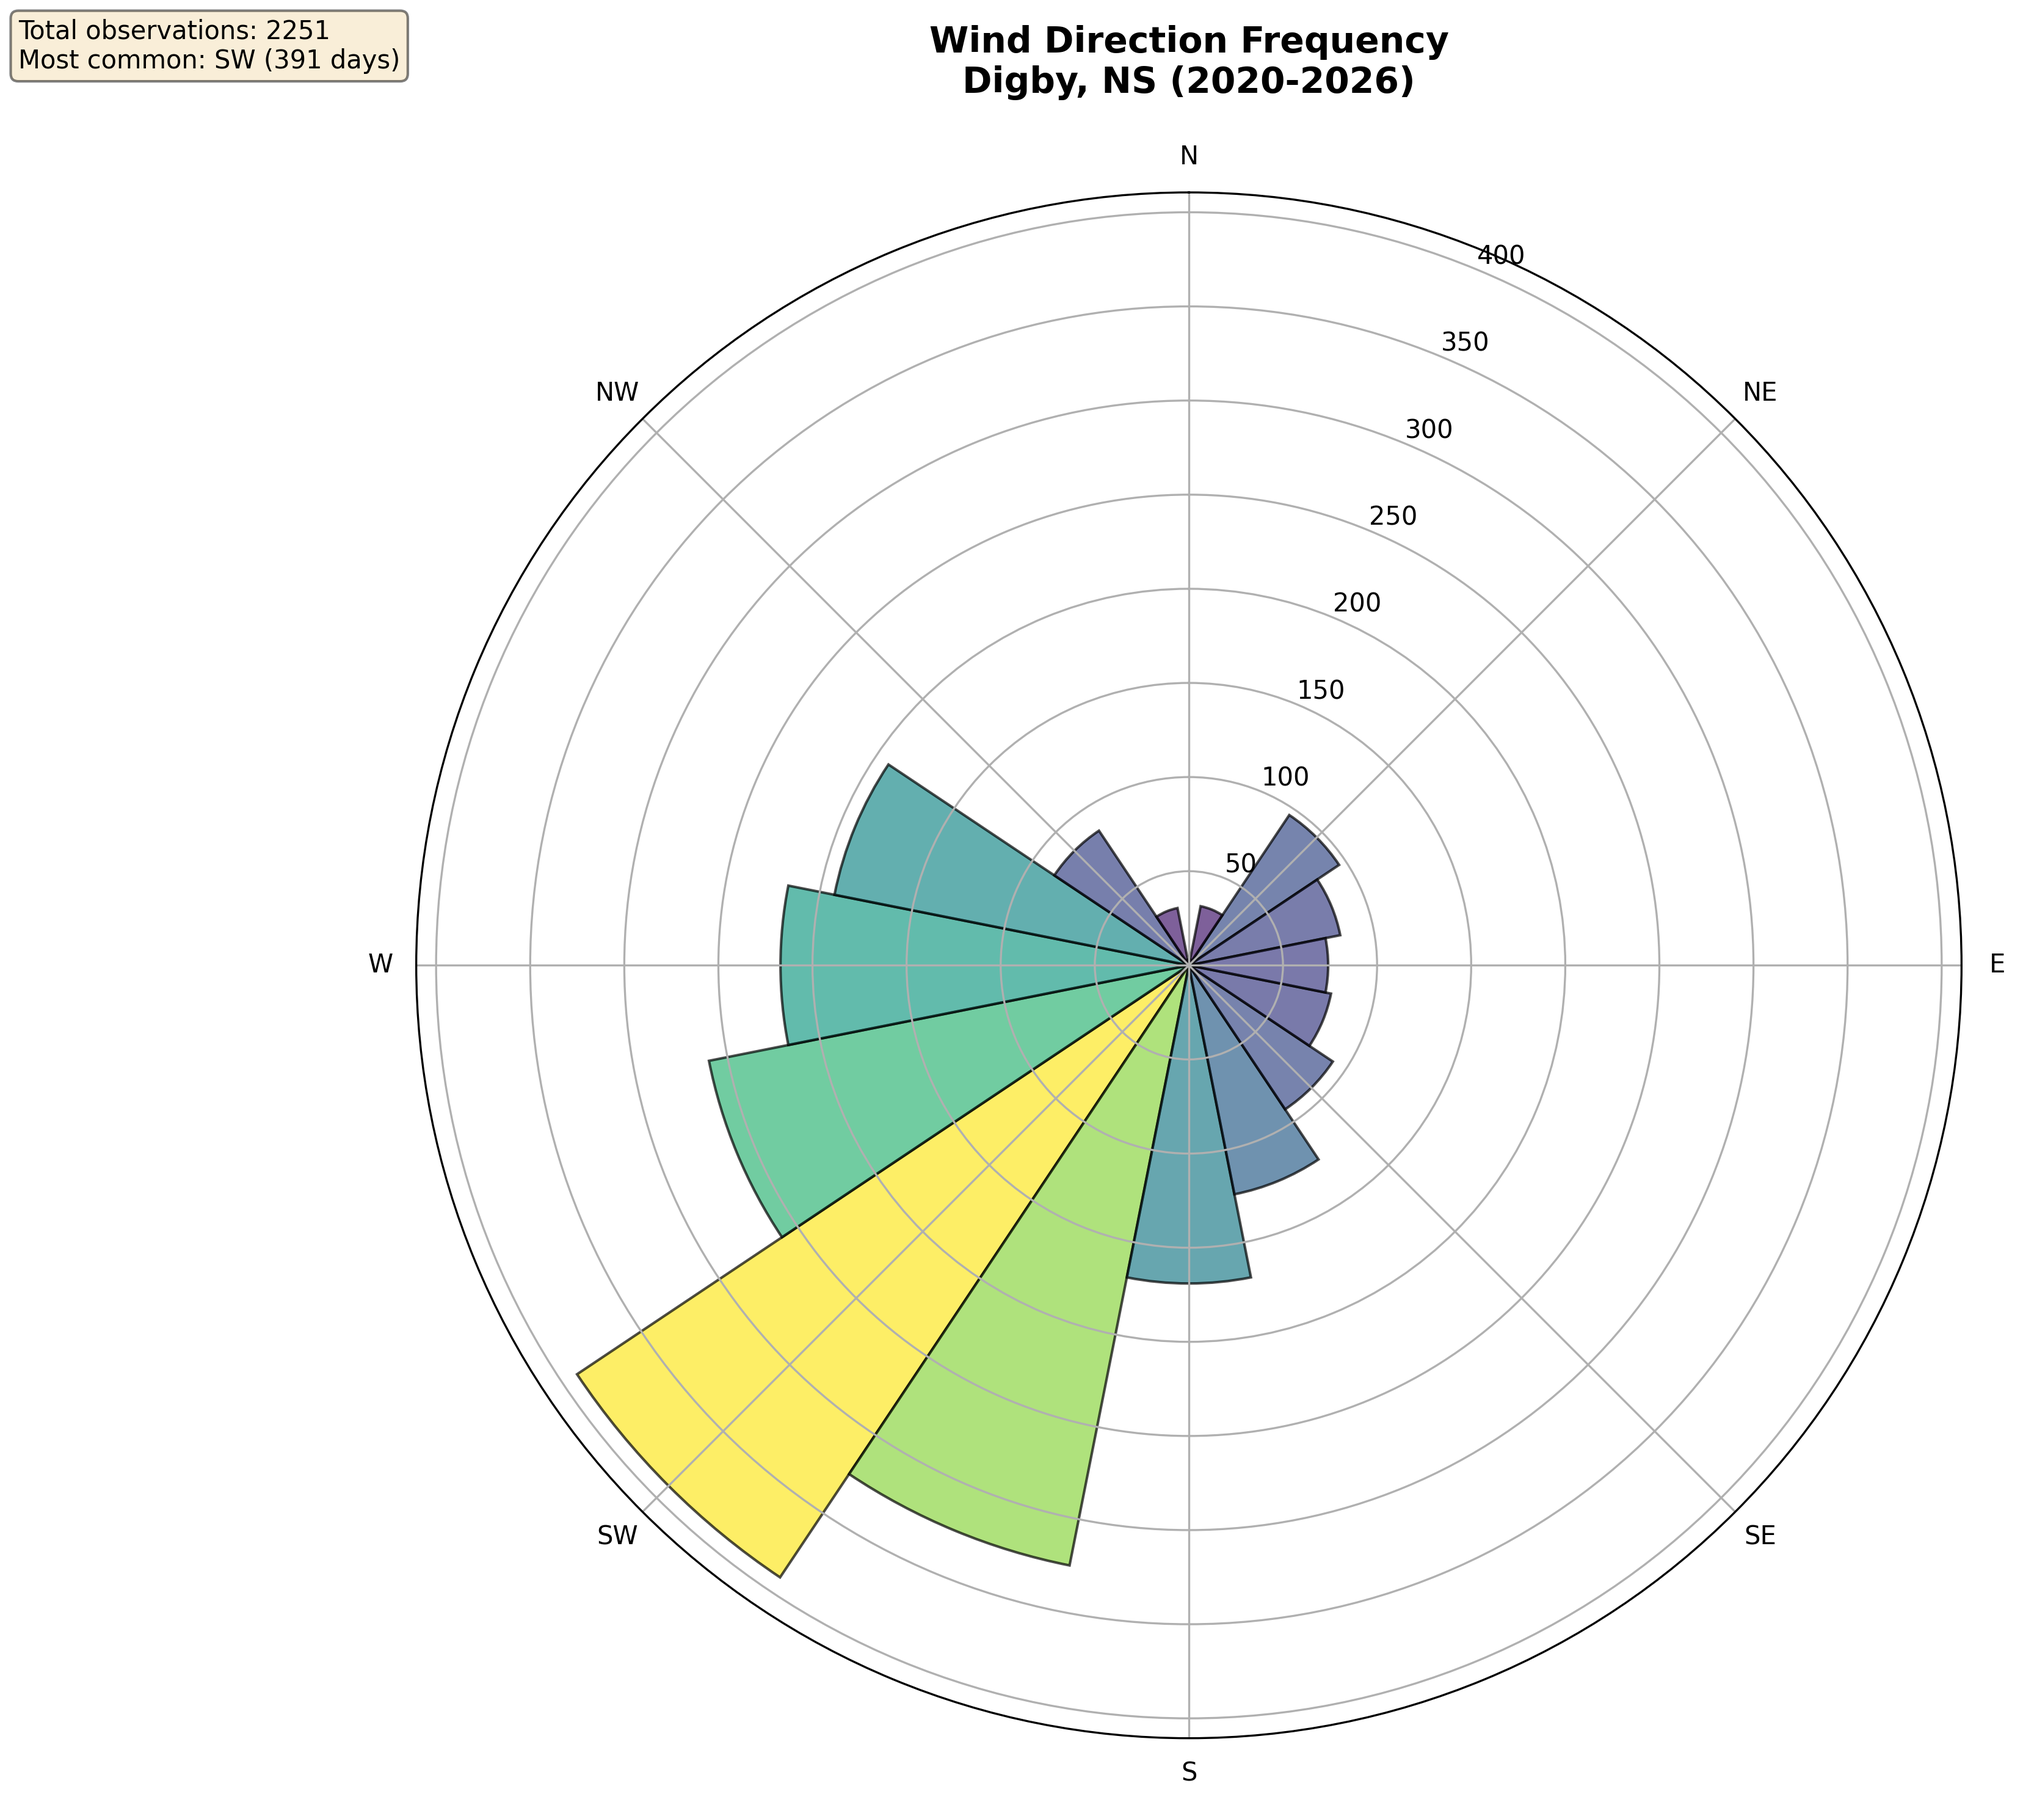
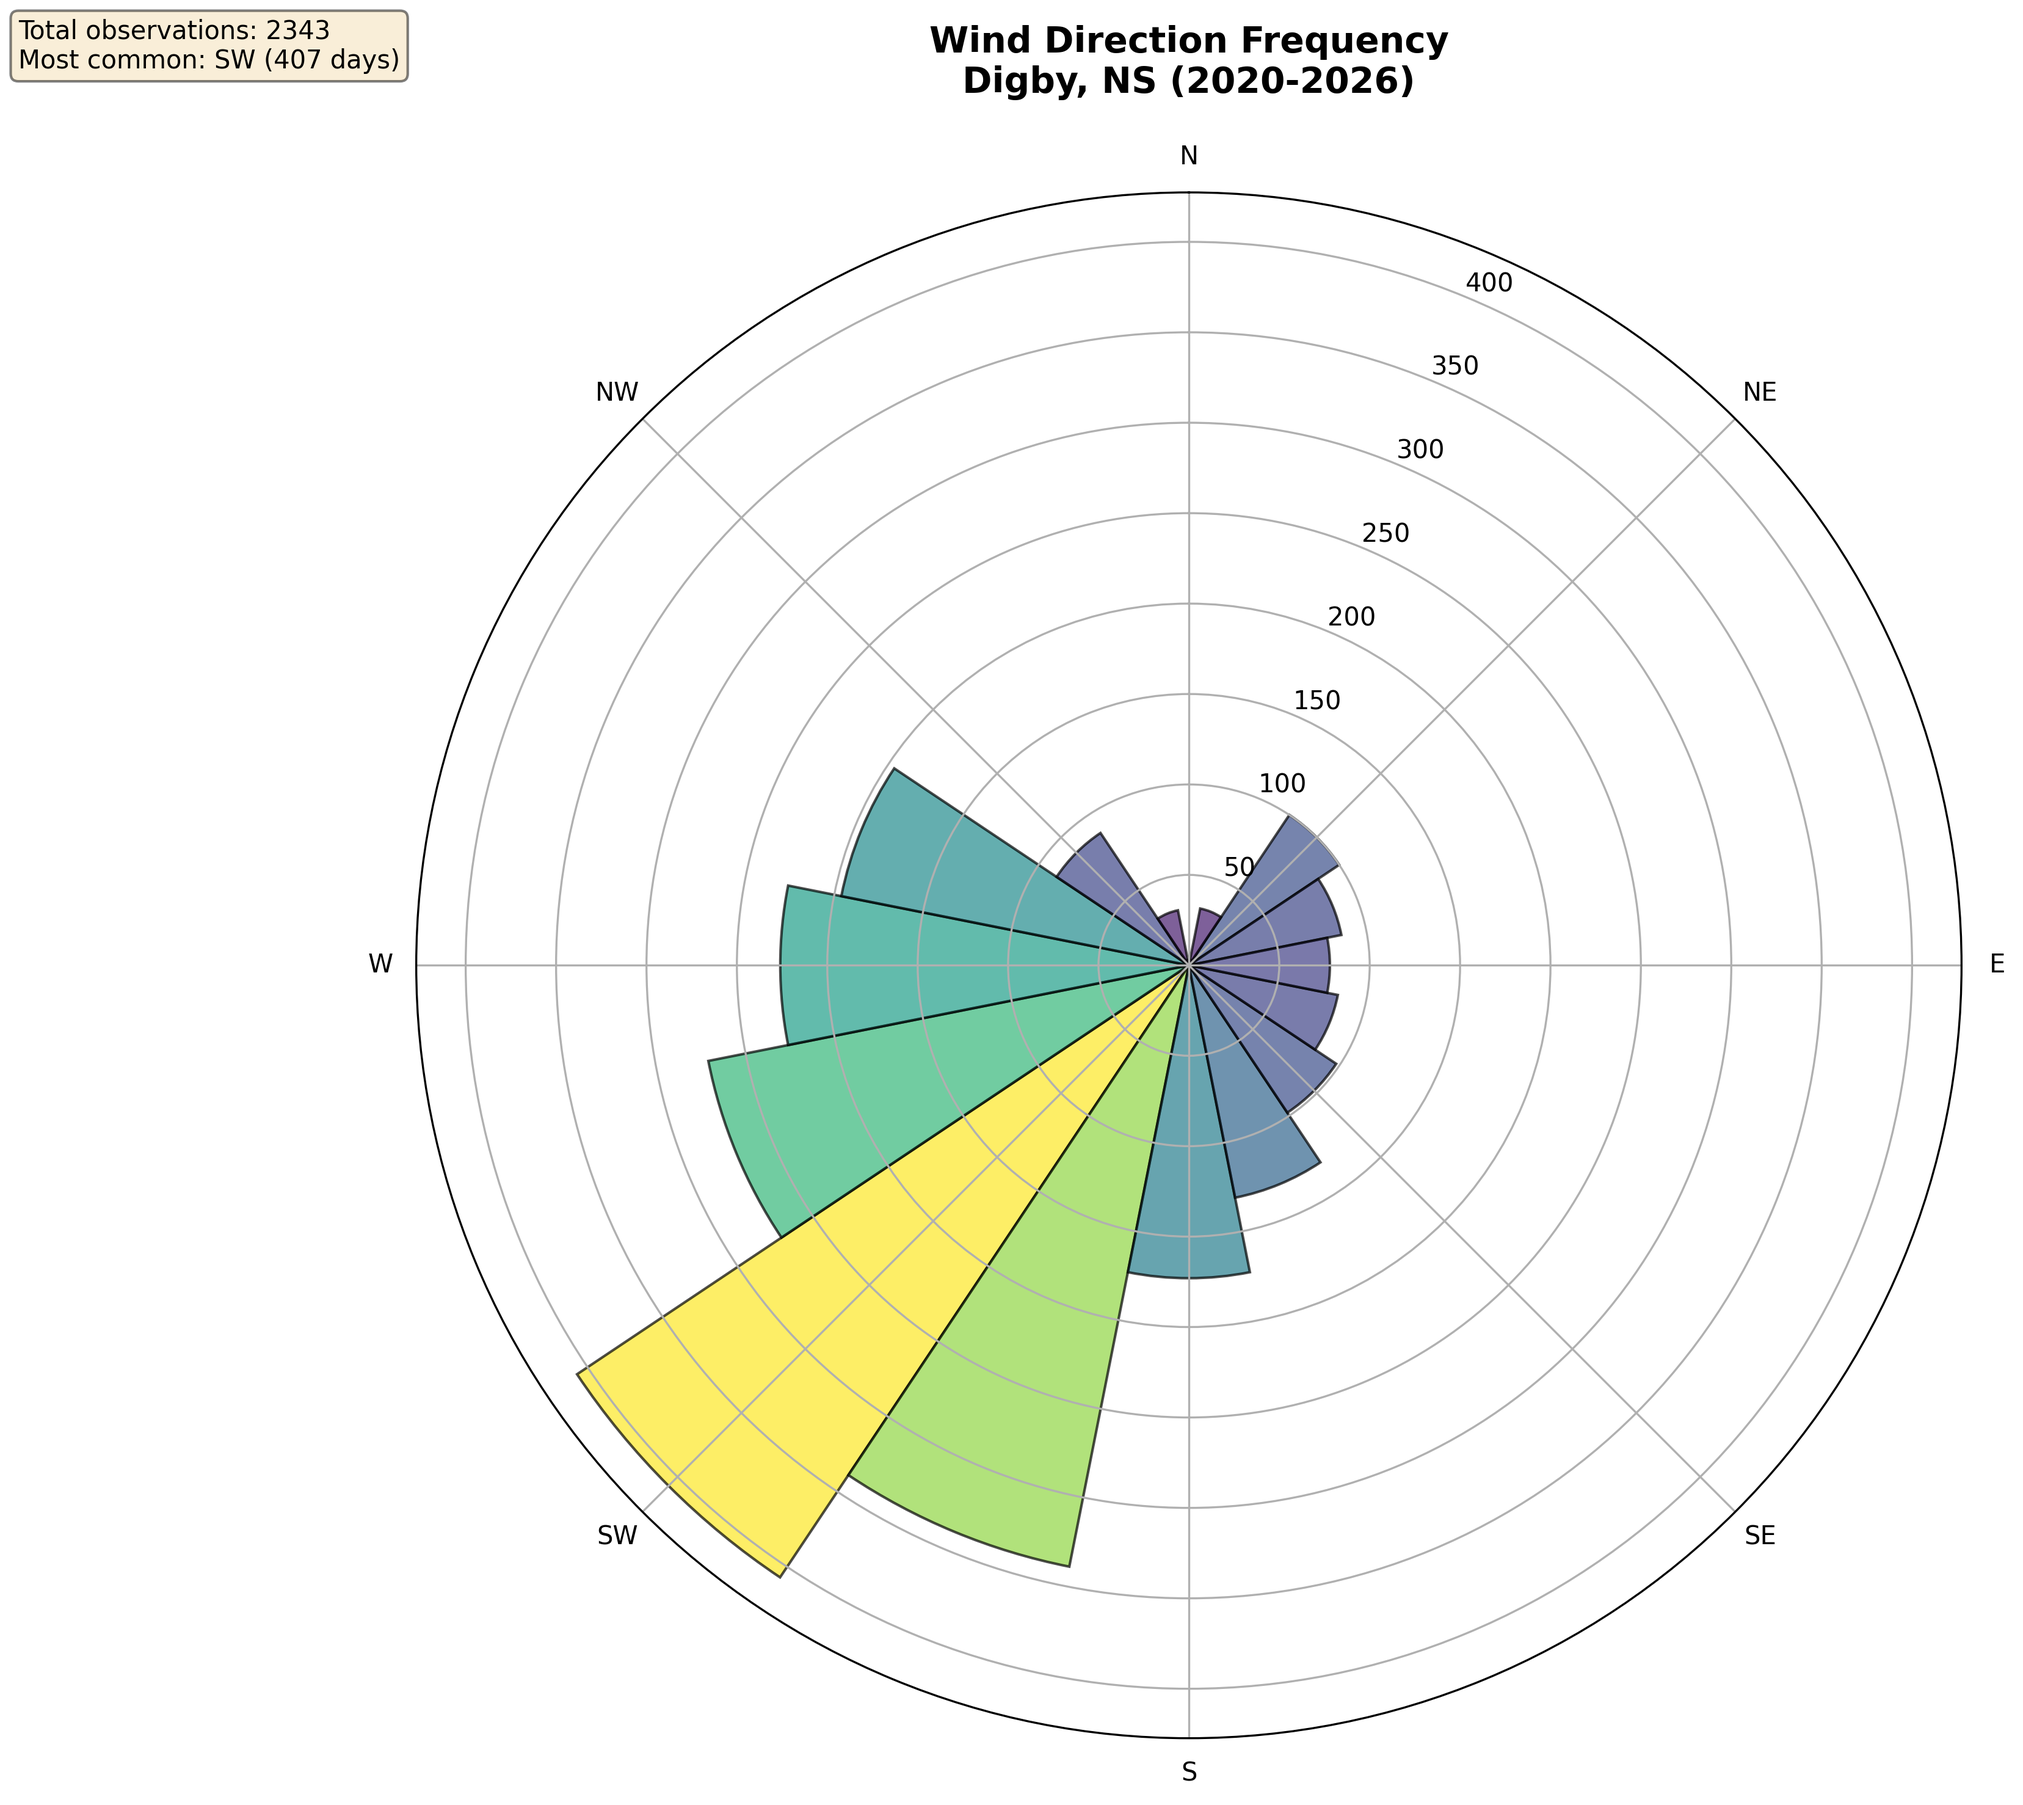
Regenerate static wind PNGs and fix update checklist
The static wind charts (digby_wind_speed.png, digby_wind_rose.png) were
stale — 2026 only showed Jan–Feb. Added visualize_wind.py to the
UPDATE.md checklist so static PNGs get rebuilt alongside interactive charts.

diff --git a/UPDATE.md b/UPDATE.md
@@ -10,15 +10,16 @@ python3 update_digby_temperature.py
 
 This downloads any new days since the last update and regenerates the static temperature plot.
 
-## 2. Regenerate interactive charts
+## 2. Regenerate charts
 
 ```bash
+python3 visualize_wind.py
 python3 plot_interactive_by_year.py
 python3 plot_interactive_vs_average.py
 python3 plot_interactive_wind.py
 ```
 
-These rebuild the four interactive HTML files served on GitHub Pages:
+These rebuild the static wind PNGs and the four interactive HTML files served on GitHub Pages:
 - `digby_temperature_by_year_interactive.html`
 - `digby_temperature_vs_average_interactive.html`
 - `digby_wind_speed_interactive.html`
